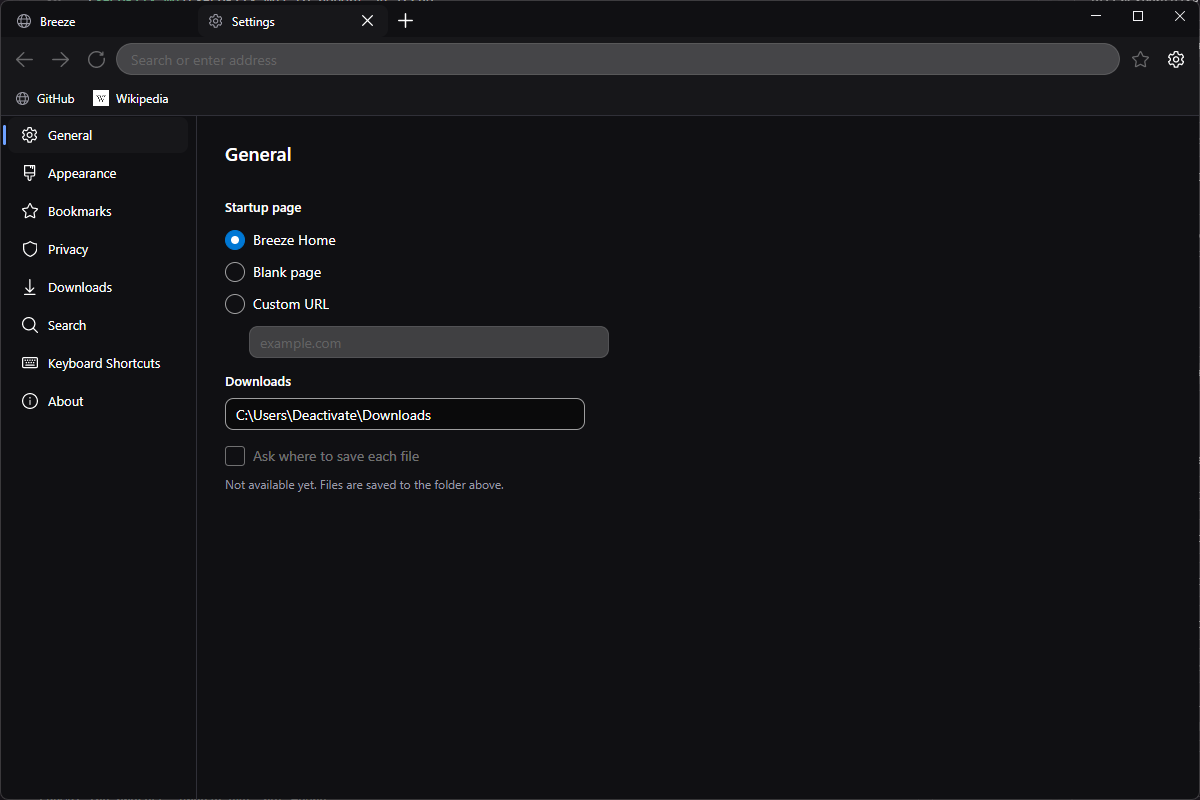
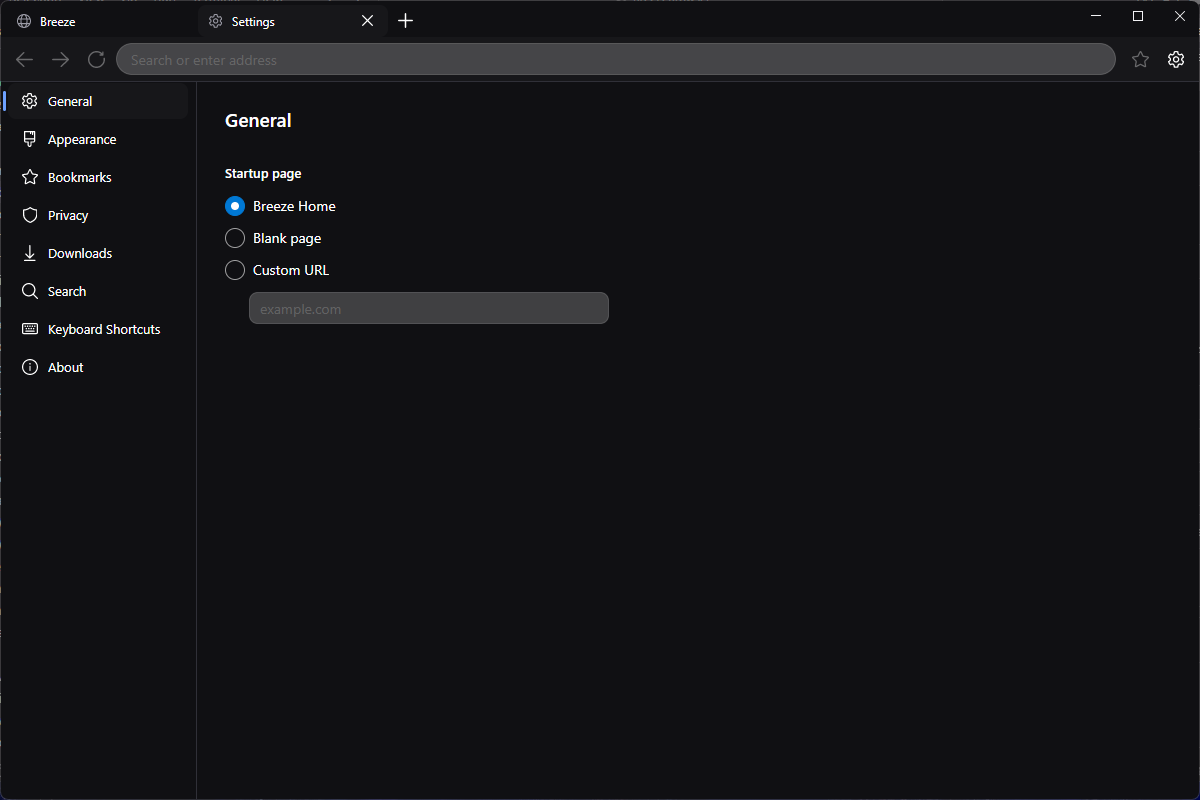
Bring the README up to date for v0.3.0
Bookmarks can be reordered by dragging now, so the feature list says so and the gap list no longer claims otherwise. The data list mentions files still downloading, and the settings screenshot is retaken, General having lost the download settings that moved to their own page.

diff --git a/README.md b/README.md
@@ -21,9 +21,9 @@ until the first stable release.
 - Back, forward, reload and stop.
 - Favicons on tabs, taken from the page the engine has already loaded.
 - Bookmarks: a star in the toolbar adds and removes the current page, and a bookmark bar below
-  the toolbar opens them in the current tab, or in a new one with a middle click. Right-click an
-  entry to delete it. The bar appears with your first bookmark and hides again with your last,
-  and `Ctrl+Shift+B` toggles it.
+  the toolbar opens them in the current tab, or in a new one with a middle click. Drag an entry to
+  reorder it, right-click to delete it. The bar appears with your first bookmark and hides again
+  with your last, and `Ctrl+Shift+B` toggles it.
 - A bundled homepage served from disk with the Breeze logo, a search box and manually managed
   shortcuts (create, edit, delete, drag to reorder), stored as readable JSON.
 - Favicons for shortcuts and bookmarks, discovered from the site and cached on disk.
@@ -48,7 +48,7 @@ daily browser:
 - **History.** Browsing history is kept by the engine and can be cleared from settings, but there
   is no history UI.
 - **Bookmark folders and a bookmark manager.** Bookmarks are one flat list, editable only through
-  the star and the bar's context menu; there is no renaming, reordering or import and export.
+  the star, dragging and the bar's context menu; there is no renaming or import and export.
 - **Keyboard shortcut editing.** Settings lists the shortcuts and the file they are stored in
   accepts overrides, but there is no UI to change them.
 - **Find in page, PDF controls, zoom controls, incognito mode, extensions, profiles, sync.**
@@ -61,8 +61,8 @@ Breeze is built to keep browsing data on the machine. What that means concretely
 - Breeze itself contains no analytics, no crash reporting and no usage statistics. It sends
   nothing to any Breeze-operated service, because none exists.
 - All data lives in `%LOCALAPPDATA%\Breeze`: the WebView2 profile, cached favicons, your
-  shortcuts, your bookmarks, your settings, and a local error log. Nothing is uploaded and there
-  is no account.
+  shortcuts, your bookmarks, your settings, files still being downloaded, and a local error log.
+  Nothing is uploaded and there is no account.
 - Tracking prevention is set to strict, browser extensions are disabled, and password saving
   and autofill are off.
 - Edge reputation checking (SmartScreen), which sends visited URLs to a Microsoft service, is
